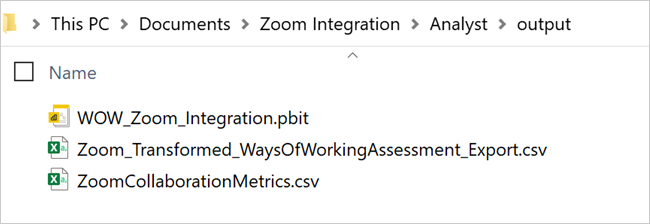
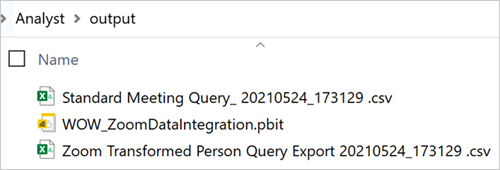
review edits

diff --git a/WorkplaceAnalytics/Use/zoom.md b/WorkplaceAnalytics/Use/zoom.md
@@ -67,9 +67,9 @@ The following is required before setting up the Zoom integration tool:
       ![Zoom mapping file sample data](../images/wpa/use/zoom-mapping-file.png)
 
    >[!Important]
-   >You must save the mapping file as .csv (not as an .xls or .xlsx file) with "mapping file" included in the file name.
+   >You must save the mapping file as a .csv (not as an .xls or .xlsx file) with "mapping file" included in the file name.
 
-5. **Append to the existing organizational data** - Your Workplace Analytics Admin must upload the .csv mapping file with the **HashIDs** as an additional column named **PersonHashID** that appends the existing organizational data that's already uploaded in Workplace Analytics. For detailed instructions, see [Subsequent organizational data uploads](../setup/upload-organizational-data.md).
+5. **Append to the existing organizational data** - Your Workplace Analytics Admin must upload the .csv mapping file with the **HashID** as an additional column named **PersonHashID** that appends the existing organizational data that's already uploaded in Workplace Analytics. For detailed instructions, see [Subsequent organizational data uploads](../setup/upload-organizational-data.md).
 
    >[!Important]
    >The Zoom meeting data includes identifiable data (email IDs) that must be de-identified before using it to create Workplace Analytics Person query data. Your admins must protect any identifiable data and only use de-identified Zoom data for analysis purposes.
@@ -81,7 +81,7 @@ The following is required before setting up the Zoom integration tool:
    3. Select **Meetings** > **Generate details report**. If you need more than one month of data, repeat these steps for prior months. Each report takes 1 to 2 hours to download.
    4. Save the downloaded reports in your **Zoom integration**/**Admin**/**input**/**zoom_reports** folder.
 
-   ![Zoom admin input example files](../images/wpa/use/zoom-admin-files.png)
+   ![Zoom example report files](../images/wpa/use/zoom-reports.png)
 
    5. Save the mapping file from your Workplace Analytics Admin in your **Zoom integration**/**Admin**/**input** folder.
 
@@ -114,7 +114,7 @@ The following is required before setting up the Zoom integration tool:
        >The first time you run the AdminActions.bat file might take longer than subsequent runs because of installation dependencies.
 
 9. **Upload the Zoom output data** - As the Workplace Analytics analyst, save the Zoom output file to the **Zoom integration**/**Analyst**/**input** folder. Confirm that the Input folder also has the Ways of Working Assessment query, Standard meeting query, and the UTC_offset.rds file.
-10. **Update the config file** -  If the Workplace Analytics analyst and Zoom admin are based in different time zones, then the analyst needs to update the **config.csv** file with the applicable **utc_offset**. If the **Ways of Working Assessment query** uses a column name that’s different than **HashIDs**, you must update the config.csv with the different column name that’s used in the query output.
+10. **Update the config file** -  If the Workplace Analytics analyst and Zoom admin are based in different time zones, then the analyst needs to update the **config.csv** file with the applicable **utc_offset**. If the **Ways of Working Assessment query** uses a column name that’s different than **HashID**, you must update the config.csv with the different column name that’s used in the query output.
 
 11. In the **Script** folder, double-click **AnalystActions.bat** to run it. When prompted, point it to **Rscript.exe**, which is usually in **C:/Program Files/R/R-4x-x/bin**.
 12. Confirm the **Output** folder includes a new .csv file for the Zoom collaboration metrics and a new .csv for the Zoom version of the Ways of working assessment query that you use with the new Zoom version of the Ways of working assessment dashboard in Power BI.
@@ -126,12 +126,12 @@ The following is required before setting up the Zoom integration tool:
 
 Your Workplace Analytics analyst needs to do the following to import the combined collaboration data into Power BI. After the import, you can analyze a combination of Zoom and Workplace Analytics collaboration metrics in the Ways of working assessment dashboard in Power BI.
 
-1. In the **Analyst/output** folder, double-click **WOW_Zoom_Integration.pbit** to run the template.
+1. In the **Analyst**/**output** folder, double-click **WOW_Zoom_Integration.pbit** to run the template.
 
    ![Zoom Ways of working assessment Power BI template](../images/wpa/use/zoom-pbi-template.png)
 
-2. When prompted by Power BI, copy and paste the file path for the **Zoom Transformed Ways of Working Assessment export** .csv file in the **Analyst/output** folder. To copy it, right-click the file, select **Properties** > **Security**, and then select and copy the file path for the **Object's name**.
-3. Use the **Standard meeting query** file that you downloaded in [Setup and configuration](#setup-and-configuration). For more information, see the [Ways of working assessment](../tutorials/power-bi-collab-assess.md).
+2. When prompted by Power BI, copy and paste the file path for the **Zoom Transformed Person Query** and **Standard meeting query** in the **Analyst/output** folder. To copy it, right-click the file, select **Properties** > **Security**, and then select and copy the file path for the **Object's name**.
+3. Where prompted, copy and use the **SupervisorIndicator** column name from the **Zoom Transformed Person Query** file.
 
 ## Zoom metrics
 
